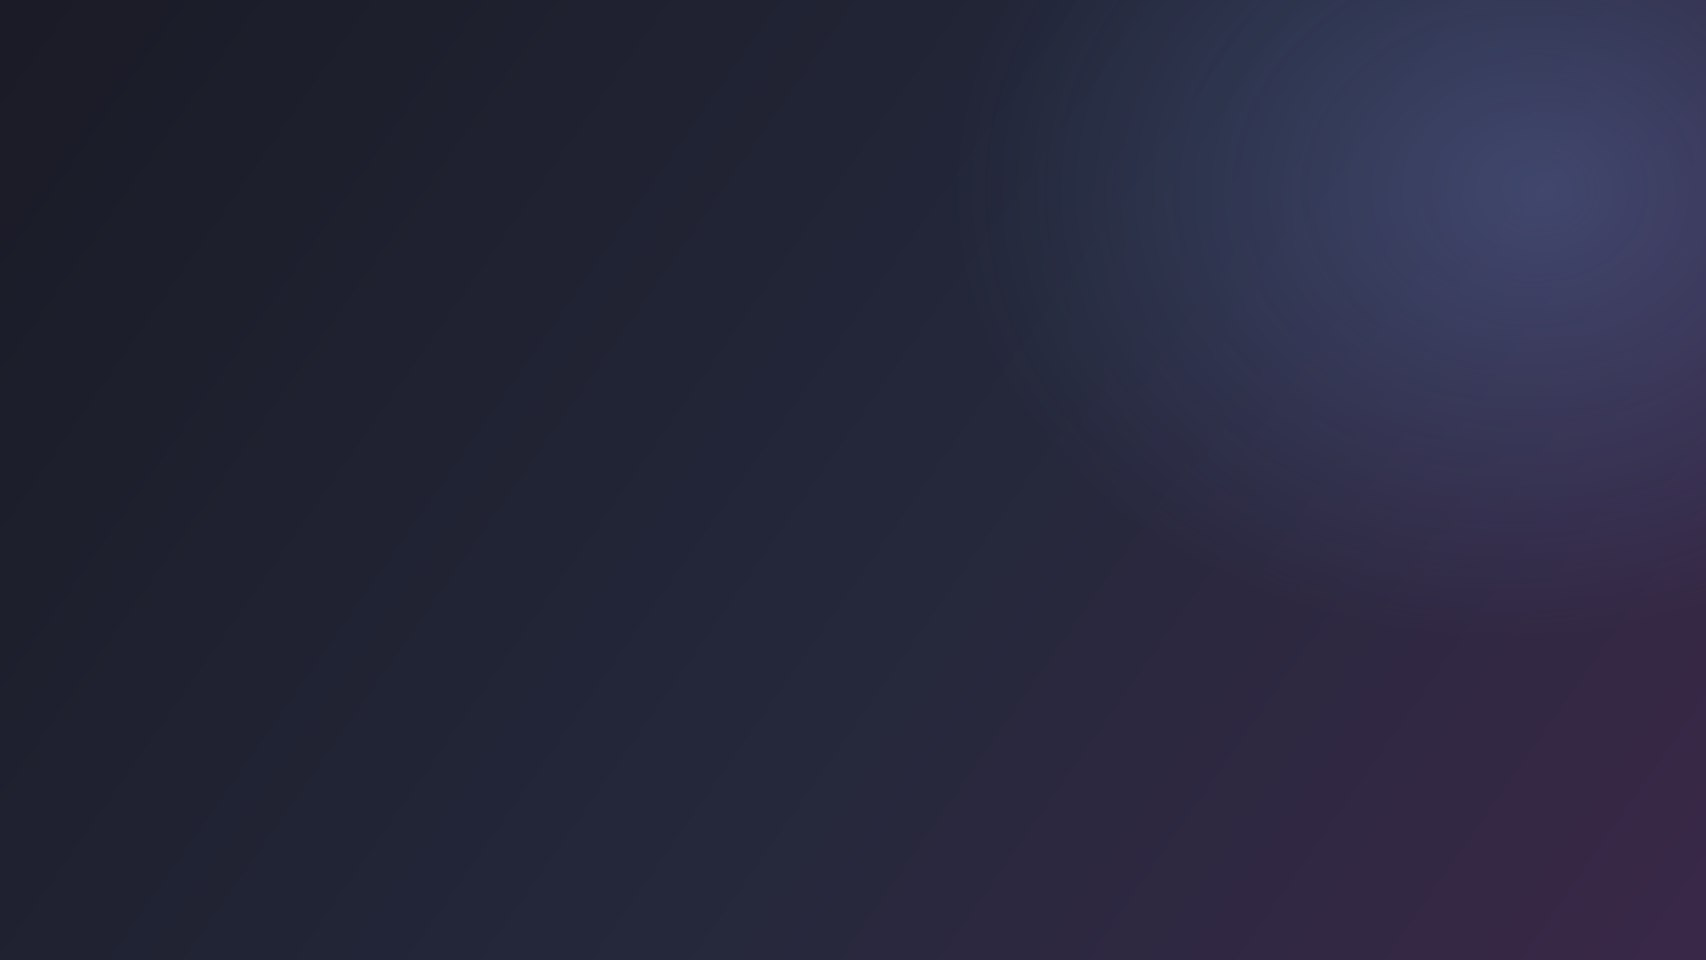
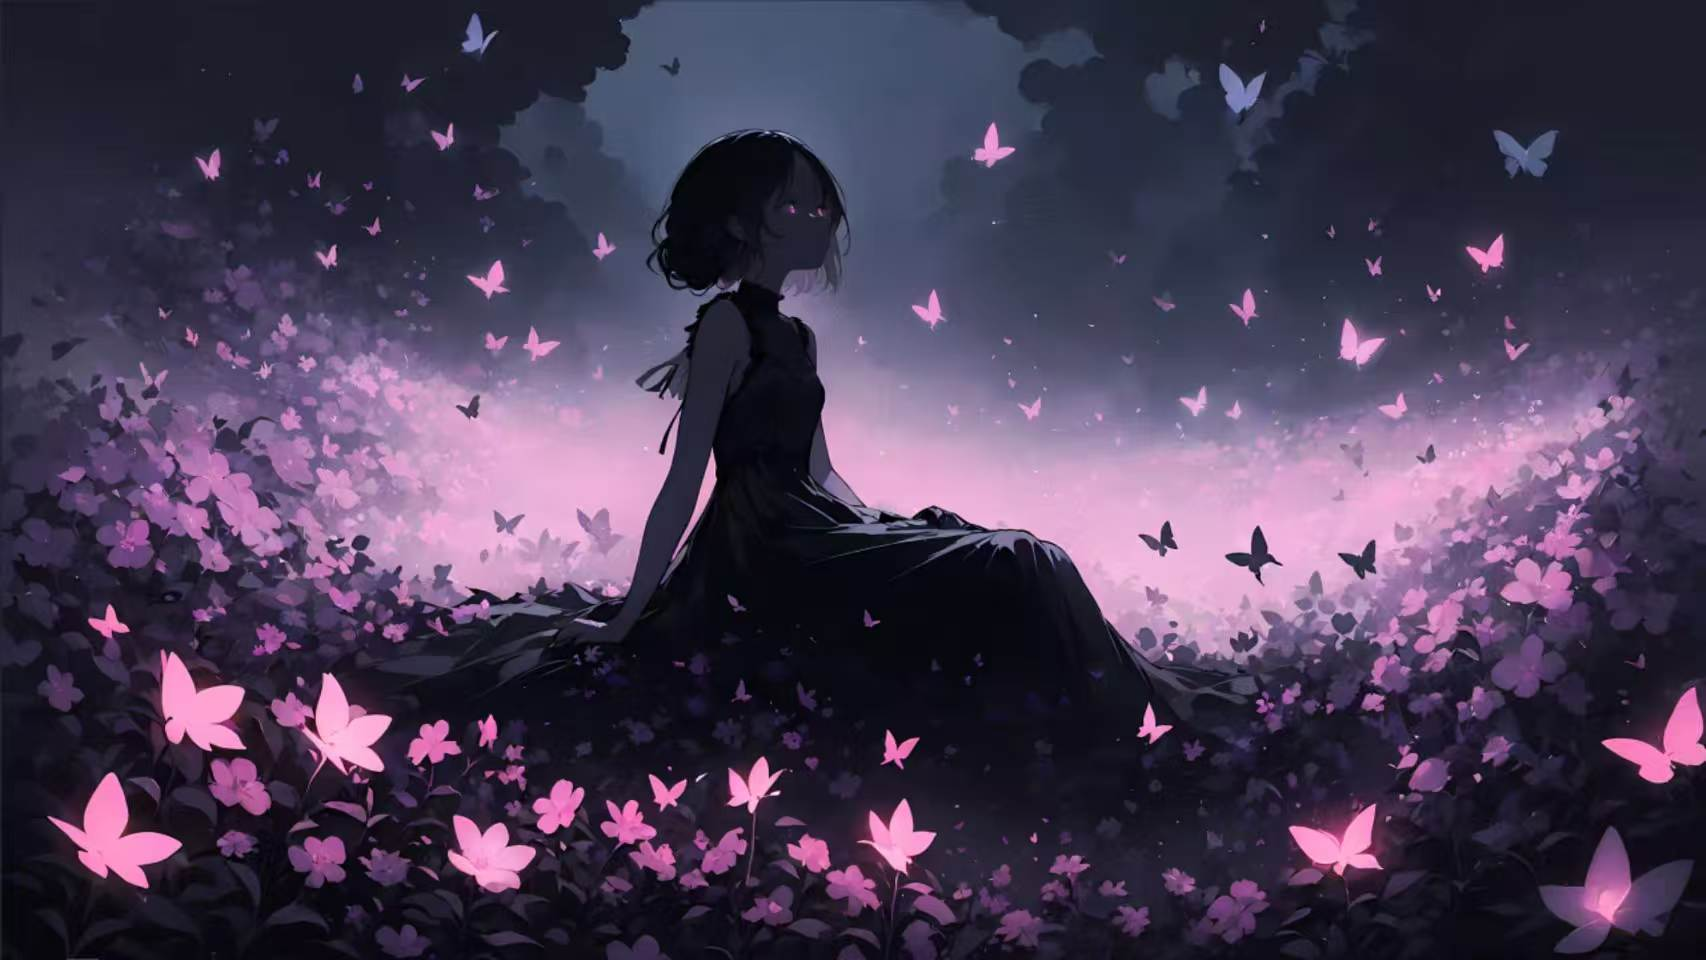
使用本机背景图并更新相关说明

diff --git a/README.md b/README.md
@@ -89,7 +89,7 @@ pwsh -File .\scripts\verify.ps1
 │  │  ├─ events/                tab-title / right-status / new-tab-button / window-position
 │  │  ├─ colors/custom.lua      Tokyo Night Moon 界面覆盖色
 │  │  ├─ utils/                 platform / math
-│  │  └─ backdrops/             背景图（仓库内为生成占位图）
+│  │  └─ backdrops/             背景图（仓库内含本机壁纸）
 │  ├─ nushell/
 │  │  ├─ config.nu              7 节单文件配置
 │  │  ├─ env.nu                 默认 env 模板
@@ -135,8 +135,8 @@ Windows 11 一级右键菜单（可选安装）：
 
 ![Windows 11 一级右键菜单](docs/images/context-menu.png)
 
-> 说明：仓库内的 `flower-meadow.jpg` 是**生成的渐变占位图**；截图使用的是本机个人壁纸，
-> 该图片未随仓库分发。想获得截图效果，把同名文件替换成你自己的壁纸即可。
+> 说明：仓库包含本机使用的背景图 `flower-meadow.jpg`，截图与仓库效果一致。
+> 该图片仅随本配置分享，版权归原作者；如涉及版权问题请替换或删除（保持同名即可）。
 
 ## 文档
 
@@ -198,3 +198,5 @@ A complete, tested Windows 11 terminal setup built on WezTerm (modular Lua confi
 Starship (Tokyo Night powerline prompt). It includes one-command installation, a health-check script,
 12 shell completions, AI-CLI tab-title wrapper, and an optional Windows 11 top-level Explorer context
 menu entry ("Open WezTerm here"). Full documentation is in Chinese under [`docs/`](docs/).
+
+

diff --git a/docs/changelog.md b/docs/changelog.md
@@ -13,7 +13,7 @@
 | 2026-10-25 | Starship 增强           | 官方 tokyo-night 预设 + 语言/耗时/任务/右侧时间/c-cpp        |
 | 2026-10-25 | 借鉴 wezterm-kit        | 右键粘贴、cwd 感知启动、背景 hsb、`cc`、c/cpp、健康检查      |
 | 2026-10-25 | Windows 11 一级右键菜单 | 打包扩展方案落地，`Open WezTerm here` 进入一级菜单           |
-| 2026-10-25 | 开源仓库整理            | 文档、安装/校验脚本、截图、占位背景图                        |
+| 2026-10-25 | 开源仓库整理            | 文档、安装/校验脚本、截图、本机背景图                        |
 
 ## 阶段 1：WezTerm 模块化（2026-10-24）
 
@@ -118,7 +118,7 @@
 - 健康检查 `scripts/verify.ps1`（20+ 项）；
 - 可选右键菜单安装/卸载脚本；
 - 干净截图；
-- 生成式占位背景图（不包含个人壁纸）；
+- 本机背景图（随配置一起分享，版权归原作者）；
 - MIT License 与第三方声明。
 
 **兼容性处理**：
@@ -152,7 +152,10 @@
 
 - 右键菜单 DEV 包需要开发者模式；
 - 字体/右键菜单包依赖 GitHub 下载；
-- 截图使用个人壁纸，仓库不包含该图；
+- 背景图版权归原作者，仅随本配置分享；
 - WSL 发行版名称是示例；
 - Windows 10 不支持新右键菜单机制。
+
+
+
 

diff --git a/docs/file-reference.md b/docs/file-reference.md
@@ -28,7 +28,7 @@ wezterm-nushell-starship/
 │  │  │  └─ new-tab-button.lua      "+"按钮行为
 │  │  ├─ colors/custom.lua          界面元素配色覆盖
 │  │  ├─ utils/{platform,math}.lua  工具函数
-│  │  ├─ backdrops/flower-meadow.jpg 生成的占位背景图
+│  │  ├─ backdrops/flower-meadow.jpg 本机背景图
 │  │  ├─ README.md                  模块说明（原项目文档）
 │  │  ├─ THIRD-PARTY-NOTICES.md     WezTerm 配置的第三方声明
 │  │  └─ .editorconfig/.gitattributes/.gitignore/.luarc.json/.stylua.toml/selene.toml
@@ -144,3 +144,4 @@ wezterm-nushell-starship/
 | `%APPDATA%\nushell\vendor\autoload\starship.nu` | 每次启动 Nushell 重新生成  |
 | `*.bak-<时间戳>`                                | 安装脚本备份               |
 | `config/nushell/history.txt`                    | Nushell 历史（.gitignore） |
+

diff --git a/THIRD-PARTY-NOTICES.md b/THIRD-PARTY-NOTICES.md
@@ -83,10 +83,9 @@
 
 ## 背景图
 
-仓库中的 `config/wezterm/backdrops/flower-meadow.jpg` 是脚本生成的 **Tokyo Night 风格渐变占位图**，
-不包含任何第三方图片。你可以用自己的壁纸覆盖该文件（保持同名）来获得本机截图中的效果。
+仓库中的 `config/wezterm/backdrops/flower-meadow.jpg` 是本机使用的背景图，
+随本配置一起分享，仅用于展示用途。图片版权归原作者所有，**不计入本仓库 MIT 许可范围**；
+如涉及版权问题，请替换或删除该文件（保持同名即可）。
 
-## 截图中出现的个人壁纸
+`docs/images/*.png` 截图与仓库内背景图一致，使用的是同一张图片。
 
-`docs/images/*.png` 截图使用了本机个人壁纸，该图片**未包含在本仓库中**，
-仅作为配置效果示意；如需删除截图或替换，请自行处理。

diff --git a/docs/components.md b/docs/components.md
@@ -51,7 +51,7 @@
 
 ### 1.6 背景图
 
-- 仓库内 `backdrops/flower-meadow.jpg` 是**生成的 Tokyo Night 渐变占位图**（约 31 KB）；
+- 仓库内 `backdrops/flower-meadow.jpg` 是本机使用的背景图（约 113 KB）；
 - 用自己的壁纸覆盖同名文件即可获得本机截图效果；
 - 背景亮暗由 `appearance.lua` 的 `hsb.brightness` 控制（默认 0.9）；
 - 窗口整体透明度由 `window_background_opacity` 控制（默认 0.7）。
@@ -155,4 +155,5 @@
 - [文件参考](file-reference.md)
 - [定制指南](customization.md)
 - [排错手册](troubleshooting.md)
+
 

diff --git a/docs/design.md b/docs/design.md
@@ -126,6 +126,7 @@
 - 主要面向 Windows 11；Windows 10 不支持新右键菜单机制；
 - 右键菜单依赖开发者模式（安装时）；
 - 字体/右键菜单包需要从 GitHub 下载，网络受限时需手动处理；
-- 截图使用个人壁纸，仓库内为占位渐变图；
+- 背景图来自本机，版权归原作者，随配置分享；
 - 配置中的 WSL 发行版名称是示例，需要按本机修改；
 - WezTerm 使用 nightly 版本验证，稳定版一般也可用，但某些配置项需要较新版本。
+
